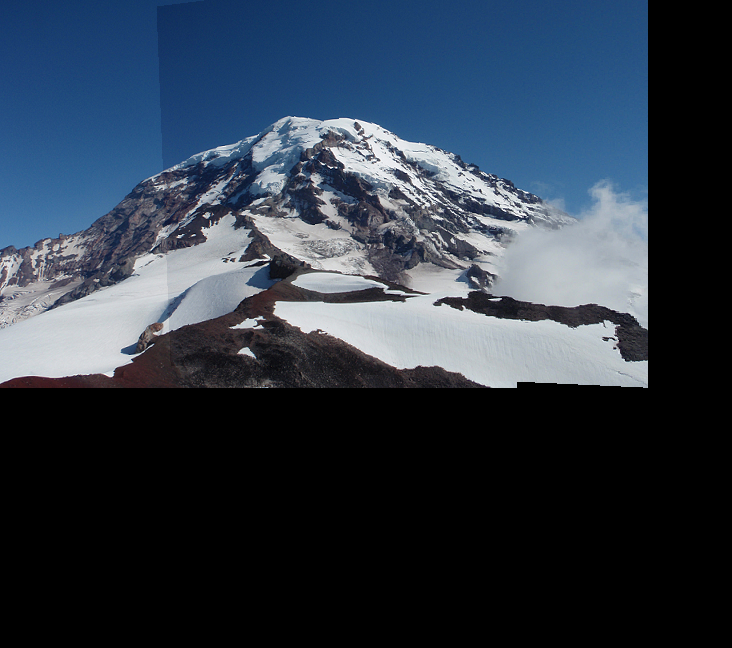
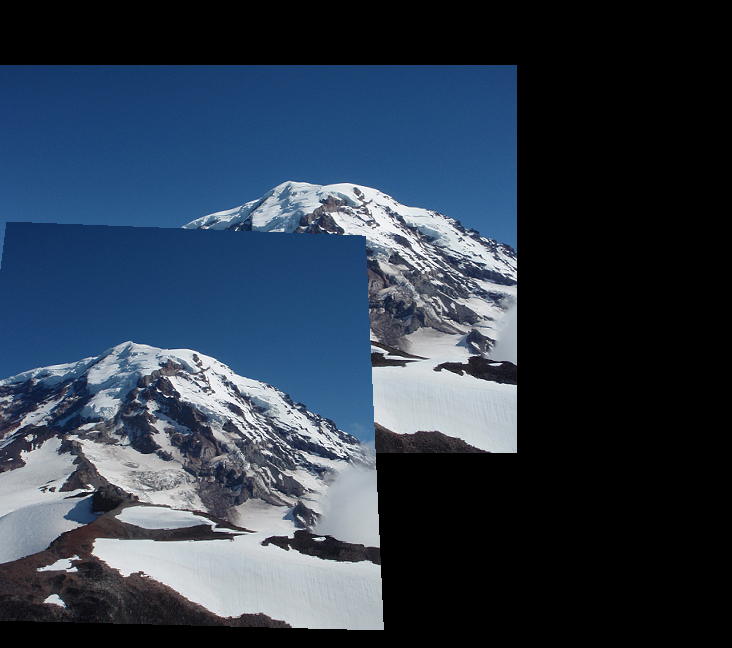
Adding boundary conditions

diff --git a/StichImages.py b/StichImages.py
@@ -37,6 +37,10 @@ def stitch(img1, img2, H, inv_H):
     img2points3 = [[y3, x3]]
     img2points4 = [[y4, x4]]
 
+    # Find the minimum and maximum along y and x columns
+
+
+
     # cv2.rectangle(img1, (int(x1), int(y1)), (int(x3), int(y3)), (255,0,0), 10)
     # cv2.imshow('', img1)
     # cv2.waitKey()
@@ -48,13 +52,22 @@ def stitch(img1, img2, H, inv_H):
 
     # points2 = np.array([img2points1, img2points2, img2points3, img2points4], np.float32)
     # print('----Points2', img2points1, img2points2, img2points3, img2points4)
+
+
     points = np.array([img1points1, img1points2, img1points3, img1points4, img2points1, img2points2, img2points3, img2points4], np.float32)
-    # print('Points ', points)
+    min__points = np.amin(points, axis=0)
+    max_points = np.amax(points, axis=0)
+    print('Points', points, 'Min and Max along axis', min__points, max_points)
+    # h = int(max_points[0][0] - min__points[0][0])
+    # w = int(max_points[0][1] - min__points[0][1])
+
+    # print('height, width of stiched Image',h, w)
+    # # print('Points ', points)
     boundaryPoints = cv2.boundingRect(points)
-
-    # w = boundaryPoints[2] - boundaryPoints[0]
-    # h = boundaryPoints[3] - boundaryPoints[1]
-
+    #
+    # # w = boundaryPoints[2] - boundaryPoints[0]
+    # # h = boundaryPoints[3] - boundaryPoints[1]
+    #
     h = boundaryPoints[2] - boundaryPoints[0]
     w = boundaryPoints[3] - boundaryPoints[1]
     stichedImage = np.zeros([h, w, 3], np.uint8)
@@ -67,26 +80,41 @@ def stitch(img1, img2, H, inv_H):
     print('Stitched Image', stichedImage.shape)
 
     # Copy img1 to stitchedImage
-    stichedImage[0:img1.shape[0], 0:img1.shape[1]] = img1
+    # ? What is the right location ?
+    offsetY = stichedImage.shape[0] - img1.shape[0]
+    offsetX = stichedImage.shape[1] - img1.shape[1]
+    print('OffSet',offsetX, offsetY)
+
+    # Try changing this
+    # stichedImage[0:img1.shape[0], 0:img1.shape[1]] = img1
+    for i in range(0, img1.shape[0]):
+        for j in range(0, img1.shape[1]):
+            stichedImage[i - boundaryPoints[0], j - boundaryPoints[1]] = img1[i, j]
 
     # Project the stitchedImage in image2 space
     '''
     If the point lies in the image2 space 
     add/ blend pixel value to stitched Image 
+    ? i,j is y, x 
     '''
-    for i in range(stichedImage.shape[0]):
-        for j in range(stichedImage.shape[1]):
+    for i in range(boundaryPoints[0], stichedImage.shape[0]):
+        for j in range(boundaryPoints[1], stichedImage.shape[1]):
             x, y = project(i,j, H[0])
-            if x > 0 and y > 0:
-                if x < img2.shape[1] and y < img2.shape[0]:
+            # Remove
+            if 0 <= x < img2.shape[0] and 0 <= y < img2.shape[1]:
+                if (x - boundaryPoints[0] < img2.shape[1]) and (y - boundaryPoints[1] < img2.shape[0]):
                     x = round(x)
                     y = round(y)
                     pixelValue = cv2.getRectSubPix(img2, (1, 1), (x, y))
-                    print('rgb value', stichedImage[j,i])
-                    stichedImage[j, i] = pixelValue[0][0]
+                    print('j, i', j, i)
+                    stichedImage[j - boundaryPoints[0], i - boundaryPoints[1]] = pixelValue[0][0]
+                    print('Boundary Points', stichedImage[j - boundaryPoints[0], i - boundaryPoints[1]])
                     print('Pixel Value', pixelValue[0][0])
 
-                    # stichedImage[x,y,0] = pixelValue[0][0][0]
+    print('-------Exiting the Stitched Image -----------')
+    return stichedImage
+
+        # stichedImage[x,y,0] = pixelValue[0][0][0]
                     # stichedImage[x,y,1] = pixelValue[0][0][1]
                     # stichedImage[x,y,2 ] = pixelValue[0][0][2]
 
@@ -95,8 +123,6 @@ def stitch(img1, img2, H, inv_H):
                     # print('Projected points ', x, y, 'Pixel value', pixelValue)
 
 
-    print('-------Exiting the Stitched Image -----------')
-    return stichedImage
 
 def stitchMultipleImages(stichedImage, img, sift):
     print('----------Stitching Multiple Images together')

diff --git a/FeatureDetectorandExtraction.py b/FeatureDetectorandExtraction.py
@@ -30,7 +30,7 @@ def harris_corner_feature_detector(img):
 
     # For each pixel calculate the corner strength
 
-    cornerStrength = np.zeros([gray_img.shape[0], gray_img.shape[1]], dtype=np.uint8)
+    cornerStrengthMatrix = np.zeros([gray_img.shape[0], gray_img.shape[1]], dtype=np.uint8)
 
     for x in range(gray_img.shape[0]):
         for y in range(gray_img.shape[1]):
@@ -46,20 +46,23 @@ def harris_corner_feature_detector(img):
 
             # corner = det - (0.04 * (trace**2))
 
-            cornerStrength[x, y] = corner
+            cornerStrengthMatrix[x, y] = corner
 
-    threshold = 0.6 * cornerStrength.max()
+    threshold = 200
 
-    corners = np.zeros([gray_img.shape[0], gray_img.shape[1]], dtype=np.uint8)
+    corners_normalize = np.empty(cornerStrengthMatrix.shape, dtype=np.uint8)
+    cv.normalize(cornerStrengthMatrix, corners_normalize, alpha=0, beta=255, norm_type=cv.NORM_MINMAX)
+    dst_norm_scaled = cv.convertScaleAbs(corners_normalize)
 
-    for x in range(cornerStrength.shape[0]):
-        for y in range(cornerStrength.shape[1]):
-            pixel = cornerStrength[x, y]
+
+    for x in range(cornerStrengthMatrix.shape[0]):
+        for y in range(cornerStrengthMatrix.shape[1]):
+            pixel = cornerStrengthMatrix[x, y]
             if pixel >= threshold:
-                corners[x, y] = cornerStrength[x, y]
-                cv.circle(img, (x, y), 6, (0, 255, 0), -1)
+                # corners_thresh[x, y] = cornerStrengthMatrix[x, y]
+                cv.circle(corners_normalize, (y, x), 6, (0, 255, 0), -1)
     kernel = np.ones((5, 5), np.uint8)
-    return corners, img
+    return corners_normalize, corners_normalize
 
 
 def ratio_test(matches):

diff --git a/Main.py b/Main.py
@@ -12,15 +12,15 @@ def main():
     img2 = cv2.imread('project_images/Rainier2.png')
 
     # # # Feature Detection
-    # img1 = cv2.imread('stiched3Image.png')
-    # img2 = cv2.imread('project_images/Rainier4.png')
+    # img1 = cv2.imread('125.png')
+    # img2 = cv2.imread('34.png')
 
     # Convert to gray scale
     gray_img1 = cv2.cvtColor(img1, cv2.COLOR_RGB2GRAY)
     gray_img2 = cv2.cvtColor(img2, cv2.COLOR_RGB2GRAY)
     box_img = cv2.imread('project_images/Boxes.png')
-    corners, corner_box_img = harris_corner_feature_detector(box_img)
-    cv2.imwrite('1a.png', corner_box_img)
+    # corners, corner_box_img = harris_corner_feature_detector(box_img)
+    # cv2.imwrite('1a.png', corner_box_img)
 
     # Feature Matching
     # Initiate SIFT detector
@@ -33,18 +33,22 @@ def main():
     matches = bfmatcher.match(des1, des2)
     matches = sorted(matches, key=lambda x: x.distance)
     img3 = cv2.drawMatches(img1, kp1, img2, kp2, matches[:10], None)
+    # cv2.imshow('', img3)
+    # cv2.waitKey()
     cv2.imwrite("2.png", img3)
 
     # Perform Ransac
-    hom, invHom, inLierMatchesList = ransac(matches, 4, 700, 20, img1, img2, kp1, kp2)
+    hom, invHom, inLierMatchesList = ransac(matches, 4, 700, 10, img1, img2, kp1, kp2)
     inlierImg = cv2.drawMatches(img1, kp1, img2, kp2, inLierMatchesList[:10], None)
-    cv2.imwrite("3.png", inlierImg)
+    # cv2.imwrite("3.png", inlierImg)
     # cv2.imshow('', inlierImg)
     # cv2.waitKey()
 
     # Merge the images
     stichedImage = stitch(img1, img2, hom, invHom)
     cv2.imwrite("4.png", stichedImage)
+    cv2.imshow('', stichedImage)
+    cv2.waitKey()
 
     # # Multiple Image Stitching
     '''

diff --git a/TestCVProject.py b/TestCVProject.py
@@ -3,16 +3,45 @@ import numpy as np
 import matplotlib.pyplot as plt
 
 
+source_window = 'Source image'
+corners_window = 'Corners detected'
+max_thresh = 255
+
+def cornerHarris_demo(val, src_gray):
+    thresh = val
+    # Detector parameters
+    blockSize = 2
+    apertureSize = 3
+    k = 0.04
+    # Detecting corners
+    dst = cv2.cornerHarris(src_gray, blockSize, apertureSize, k)
+    # Normalizing
+    dst_norm = np.empty(dst.shape, dtype=np.float32)
+    cv2.normalize(dst, dst_norm, alpha=0, beta=255, norm_type=cv2.NORM_MINMAX)
+    dst_norm_scaled = cv2.convertScaleAbs(dst_norm)
+    # Drawing a circle around corners
+    for i in range(dst_norm.shape[0]):
+        for j in range(dst_norm.shape[1]):
+            if int(dst_norm[i,j]) > thresh:
+                cv2.circle(dst_norm_scaled, (j,i), 5, (0), 2)
+    # Showing the result
+    cv2.namedWindow(corners_window)
+    cv2.imshow(corners_window, dst_norm_scaled)
+    cv2.waitKey()
+
 
 def main():
-    point1 = [[1, 2]]
-    point2 = [[3, 4]]
-    points3 = [[5,6]]
+    src = cv2.imread('project_images/Boxes.png')
+    src_gray = cv2.cvtColor(src, cv2.COLOR_BGR2GRAY)
 
-    points = np.array([point1, point2, points3], np.float32)
-    print(points)
-    print(cv2.boundingRect(points))
 
+    # Create a window and a trackbar
+    cv2.namedWindow(source_window)
+    thresh = 200  # initial threshold
+
+    cv2.createTrackbar('Threshold: ', source_window, thresh, max_thresh, cornerHarris_demo)
+    cv2.imshow(source_window, src)
+    cornerHarris_demo(thresh, src_gray)
 
 
 

diff --git a/RANSAC.py b/RANSAC.py
@@ -15,7 +15,7 @@ def project(x1, y1, H):
     proj_trans = np.dot(H, vector)
     proj_coordinates = np.divide(proj_trans, proj_trans[2])
     # print(' Projected Coordinates ', proj_coordinates)
-    # print(proj_trans, 'third value is', proj_trans[2])
+    # # print(proj_trans, 'third value is', proj_trans[2])
     # out_pts = cv2.perspectiveTransform(a_pers, H)
     # print('Output from perspective transform', out_pts)
     return proj_coordinates[0], proj_coordinates[1]
@@ -57,7 +57,6 @@ def ransac(matches, numMatches, numIterations, inlierThreshold, img1, img2, kp1,
     # Test Ransac points
     ptsA = np.float32([kp1[match.queryIdx].pt for match in matches])
     ptsB = np.float32([kp2[match.trainIdx].pt for match in matches])
-
     hom, mask = cv2.findHomography(ptsA, ptsB, cv2.RANSAC, inlierThreshold)
     print('Homography from RANSAC', hom)
 

diff --git a/ToDo.md b/ToDo.md
@@ -80,6 +80,17 @@ ToDo
 - The projected Points coordinates is it in x, y or y,x 
 - How does numpy store x, y coordinates
 
+-------
+
+--------------------------------------------------------------------
+
+Stitching Images 
+
+1. I am projecting corners of image2 onto image1 space using Inverse Hom.
+2. Calculate the size using boundingrec to get the size of the entire stitchedImage. I am getting same results 
+3. 
+
+ 
 
 
 
